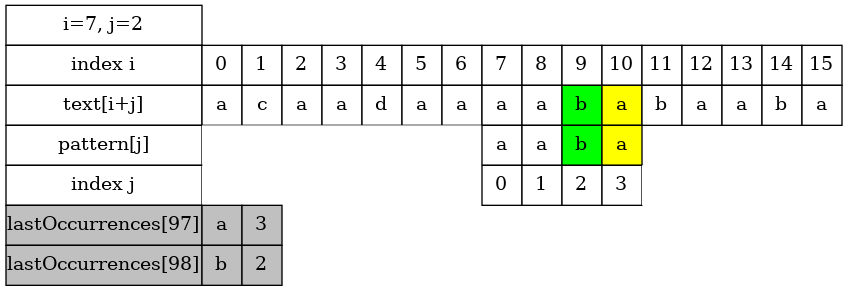
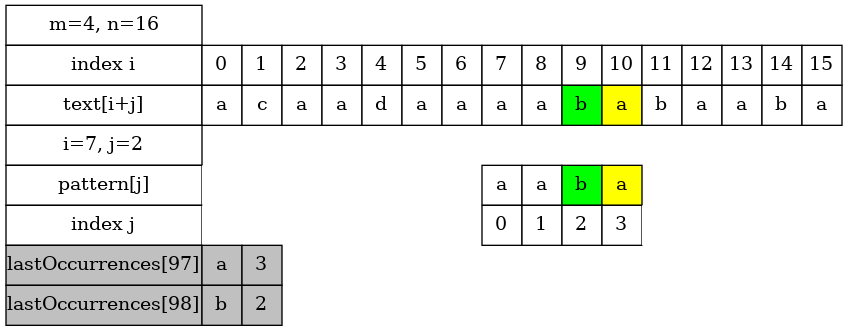
Update Strings/BoyerMooreBadChar

Changed region(s): [[0.0, 0.0, 1.0, 0.9897], [0.307, 0.8969, 0.3377, 0.9278]]

diff --git a/Strings/BoyerMooreBadChar/src/Array2Dot.c b/Strings/BoyerMooreBadChar/src/Array2Dot.c
@@ -12,10 +12,9 @@ static void PrintHtmlTable(FILE *dotFile,
                            long indexPat, long startTxt) {
     fprintf(dotFile, "<table border=\"0\" cellborder=\"1\" cellspacing=\"0\" cellpadding=\"0\"> \n");
 
-
     fprintf(dotFile, "<tr> \n");
-    fprintf(dotFile, "<td width=\"30\" height=\"30\" bgcolor=\"white\">i=%ld, j=%ld</td> \n", startTxt, indexPat);
-    fprintf(dotFile, "</tr> \n");
+    fprintf(dotFile, "<td width=\"30\" height=\"30\" bgcolor=\"white\">m=%ld, n=%ld</td> \n", m, n);
+    fprintf(dotFile, "</tr> \n");      
 
      // text
     fprintf(dotFile, "<tr> \n");
@@ -46,6 +45,10 @@ static void PrintHtmlTable(FILE *dotFile,
         }
     }
     fprintf(dotFile, "</tr> \n");   
+
+    fprintf(dotFile, "<tr> \n");
+    fprintf(dotFile, "<td width=\"30\" height=\"30\" bgcolor=\"white\">i=%ld, j=%ld</td> \n", startTxt, indexPat);
+    fprintf(dotFile, "</tr> \n");
 
     // pattern
     fprintf(dotFile, "<tr> \n");   

diff --git a/Strings/BoyerMooreBadChar/src/main.c b/Strings/BoyerMooreBadChar/src/main.c
@@ -14,6 +14,15 @@ int main(void) {
     char *pattern = "aaba";
     BoyerMooreBadChar(pattern, text);
 
+    text = "aaaabaaaa";
+    pattern = "aaa";
+    BoyerMooreBadChar(pattern, text);
+
+
+    BoyerMooreBadChar("aabaabaab", "aaaabaaaabaabaabaa");
+
+    BoyerMooreBadChar("caba", "ddcabacc");       
+
     return 0;
 }
 

diff --git a/Strings/BoyerMooreBadChar/README.md b/Strings/BoyerMooreBadChar/README.md
@@ -110,8 +110,17 @@ BoyerMooreBadChar$ make
 BoyerMooreBadChar$ ./main
 
 aaba found at index 7 in acaadaaaababaaba
-
 aaba found at index 12 in acaadaaaababaaba
+
+aaa found at index 0 in aaaabaaaa
+aaa found at index 1 in aaaabaaaa
+aaa found at index 5 in aaaabaaaa
+aaa found at index 6 in aaaabaaaa
+
+aabaabaab found at index 7 in aaaabaaaabaabaabaa
+
+caba found at index 2 in ddcabacc
+
 
 ```
 
@@ -122,7 +131,7 @@ aaba found at index 12 in acaadaaaababaaba
 void BoyerMooreBadChar(char *pattern, char *text);
  
 ```
-### BoyerMooreBadChar("aaba", "acaadaaaababaaba")
+### Example 1: BoyerMooreBadChar("aaba", "acaadaaaababaaba")
 
 | | 
 |:-------------:|
@@ -224,4 +233,248 @@ void BoyerMooreBadChar(char *pattern, char *text);
 |  | 
 |:-------------:|
 | <img src="images/BoyerMooreBadChar_0022.png" width="100%" height="100%"> |
+
+
+### Example 2: BoyerMooreBadChar("aaa", "aaaabaaaa")
+
+|  | 
+|:-------------:|
+| <img src="images/BoyerMooreBadChar_0023.png" width="100%" height="100%"> |
+
+|  | 
+|:-------------:|
+| <img src="images/BoyerMooreBadChar_0024.png" width="100%" height="100%"> |
+
+
+|  | 
+|:-------------:|
+| <img src="images/BoyerMooreBadChar_0025.png" width="100%" height="100%"> |
+
+
+|  | 
+|:-------------:|
+| <img src="images/BoyerMooreBadChar_0026.png" width="100%" height="100%"> |
+
+|  | 
+|:-------------:|
+| <img src="images/BoyerMooreBadChar_0027.png" width="100%" height="100%"> |
+
+
+|  | 
+|:-------------:|
+| <img src="images/BoyerMooreBadChar_0028.png" width="100%" height="100%"> |
+
+
+|  | 
+|:-------------:|
+| <img src="images/BoyerMooreBadChar_0029.png" width="100%" height="100%"> |
+
+|  | 
+|:-------------:|
+| <img src="images/BoyerMooreBadChar_0030.png" width="100%" height="100%"> |
+
+
+| | 
+|:-------------:|
+| <img src="images/BoyerMooreBadChar_0031.png" width="100%" height="100%"> |
+
+
+| | 
+|:-------------:|
+| <img src="images/BoyerMooreBadChar_0032.png" width="100%" height="100%"> |
+
+
+|  | 
+|:-------------:|
+| <img src="images/BoyerMooreBadChar_0033.png" width="100%" height="100%"> |
+
+|  | 
+|:-------------:|
+| <img src="images/BoyerMooreBadChar_0034.png" width="100%" height="100%"> |
+
+
+|  | 
+|:-------------:|
+| <img src="images/BoyerMooreBadChar_0035.png" width="100%" height="100%"> |
+
+
+|  | 
+|:-------------:|
+| <img src="images/BoyerMooreBadChar_0036.png" width="100%" height="100%"> |
+
+|  | 
+|:-------------:|
+| <img src="images/BoyerMooreBadChar_0037.png" width="100%" height="100%"> |
+
+
+|  | 
+|:-------------:|
+| <img src="images/BoyerMooreBadChar_0038.png" width="100%" height="100%"> |
+
+### Example 3: BoyerMooreBadChar("aabaabaab", "aaaabaaaabaabaabaa");
+
+|  | 
+|:-------------:|
+| <img src="images/BoyerMooreBadChar_0039.png" width="100%" height="100%"> |
+
+
+|  | 
+|:-------------:|
+| <img src="images/BoyerMooreBadChar_0040.png" width="100%" height="100%"> |
+
+
+| | 
+|:-------------:|
+| <img src="images/BoyerMooreBadChar_0041.png" width="100%" height="100%"> |
+
+
+| | 
+|:-------------:|
+| <img src="images/BoyerMooreBadChar_0042.png" width="100%" height="100%"> |
+
+
+|  | 
+|:-------------:|
+| <img src="images/BoyerMooreBadChar_0043.png" width="100%" height="100%"> |
+
+|  | 
+|:-------------:|
+| <img src="images/BoyerMooreBadChar_0044.png" width="100%" height="100%"> |
+
+
+|  | 
+|:-------------:|
+| <img src="images/BoyerMooreBadChar_0045.png" width="100%" height="100%"> |
+
+
+|  | 
+|:-------------:|
+| <img src="images/BoyerMooreBadChar_0046.png" width="100%" height="100%"> |
+
+|  | 
+|:-------------:|
+| <img src="images/BoyerMooreBadChar_0047.png" width="100%" height="100%"> |
+
+
+|  | 
+|:-------------:|
+| <img src="images/BoyerMooreBadChar_0048.png" width="100%" height="100%"> |
+
+
+|  | 
+|:-------------:|
+| <img src="images/BoyerMooreBadChar_0049.png" width="100%" height="100%"> |
+
+|  | 
+|:-------------:|
+| <img src="images/BoyerMooreBadChar_0050.png" width="100%" height="100%"> |
+
+
+| | 
+|:-------------:|
+| <img src="images/BoyerMooreBadChar_0051.png" width="100%" height="100%"> |
+
+
+| | 
+|:-------------:|
+| <img src="images/BoyerMooreBadChar_0052.png" width="100%" height="100%"> |
+
+
+|  | 
+|:-------------:|
+| <img src="images/BoyerMooreBadChar_0053.png" width="100%" height="100%"> |
+
+|  | 
+|:-------------:|
+| <img src="images/BoyerMooreBadChar_0054.png" width="100%" height="100%"> |
+
+
+|  | 
+|:-------------:|
+| <img src="images/BoyerMooreBadChar_0055.png" width="100%" height="100%"> |
+
+
+|  | 
+|:-------------:|
+| <img src="images/BoyerMooreBadChar_0056.png" width="100%" height="100%"> |
+
+|  | 
+|:-------------:|
+| <img src="images/BoyerMooreBadChar_0057.png" width="100%" height="100%"> |
+
+
+|  | 
+|:-------------:|
+| <img src="images/BoyerMooreBadChar_0058.png" width="100%" height="100%"> |
+
+
+|  | 
+|:-------------:|
+| <img src="images/BoyerMooreBadChar_0059.png" width="100%" height="100%"> |
+
+
+|  | 
+|:-------------:|
+| <img src="images/BoyerMooreBadChar_0060.png" width="100%" height="100%"> |
+
+
+| | 
+|:-------------:|
+| <img src="images/BoyerMooreBadChar_0061.png" width="100%" height="100%"> |
+
+
+| | 
+|:-------------:|
+| <img src="images/BoyerMooreBadChar_0062.png" width="100%" height="100%"> |
+
+
+|  | 
+|:-------------:|
+| <img src="images/BoyerMooreBadChar_0063.png" width="100%" height="100%"> |
+
+|  | 
+|:-------------:|
+| <img src="images/BoyerMooreBadChar_0064.png" width="100%" height="100%"> |
+
+
+|  | 
+|:-------------:|
+| <img src="images/BoyerMooreBadChar_0065.png" width="100%" height="100%"> |
+
+### Example 4: BoyerMooreBadChar("caba", "ddcabacc");   
+
+|  | 
+|:-------------:|
+| <img src="images/BoyerMooreBadChar_0066.png" width="100%" height="100%"> |
+
+    
+
+|  | 
+|:-------------:|
+| <img src="images/BoyerMooreBadChar_0067.png" width="100%" height="100%"> |
+
+
+|  | 
+|:-------------:|
+| <img src="images/BoyerMooreBadChar_0068.png" width="100%" height="100%"> |
+
+
+|  | 
+|:-------------:|
+| <img src="images/BoyerMooreBadChar_0069.png" width="100%" height="100%"> |
+
+|  | 
+|:-------------:|
+| <img src="images/BoyerMooreBadChar_0070.png" width="100%" height="100%"> |
+
+
+| | 
+|:-------------:|
+| <img src="images/BoyerMooreBadChar_0071.png" width="100%" height="100%"> |
+
+
+| | 
+|:-------------:|
+| <img src="images/BoyerMooreBadChar_0072.png" width="100%" height="100%"> |
+
 
